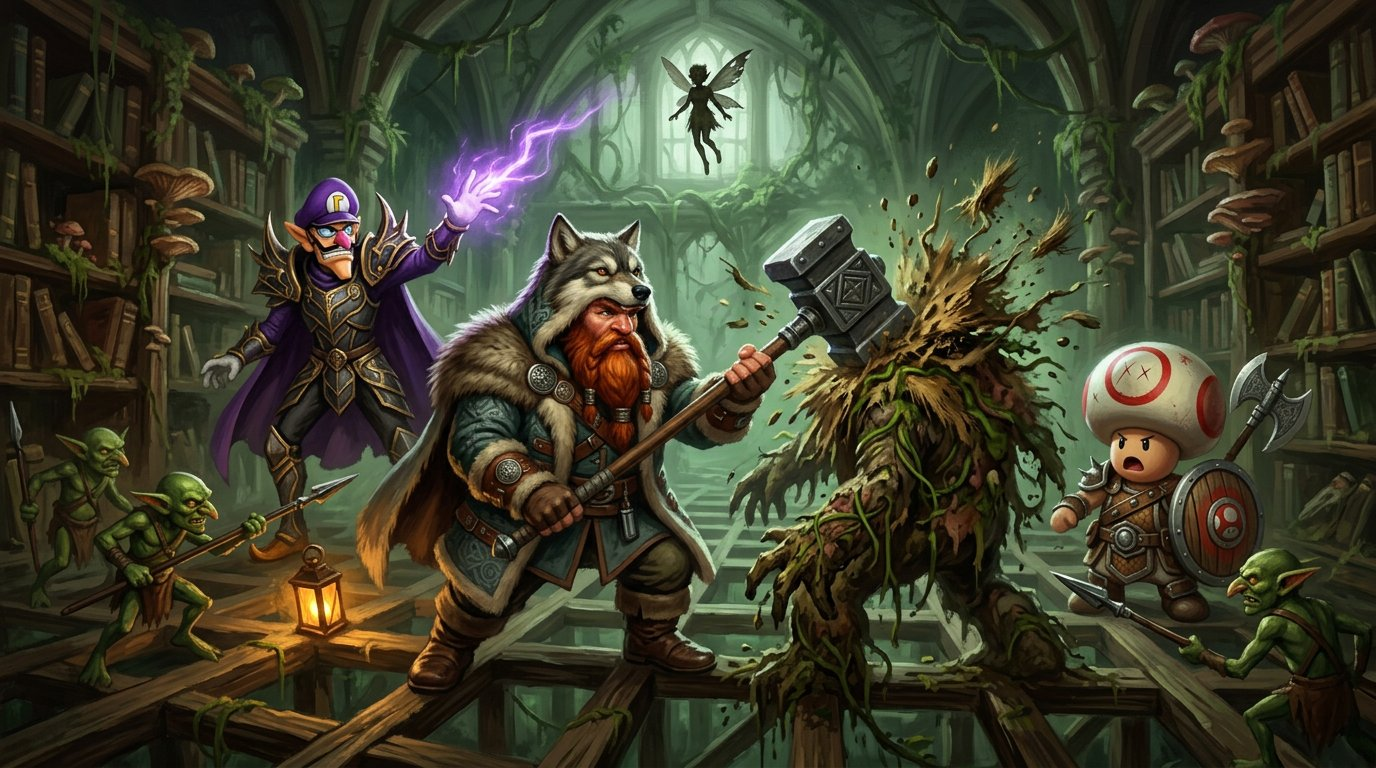
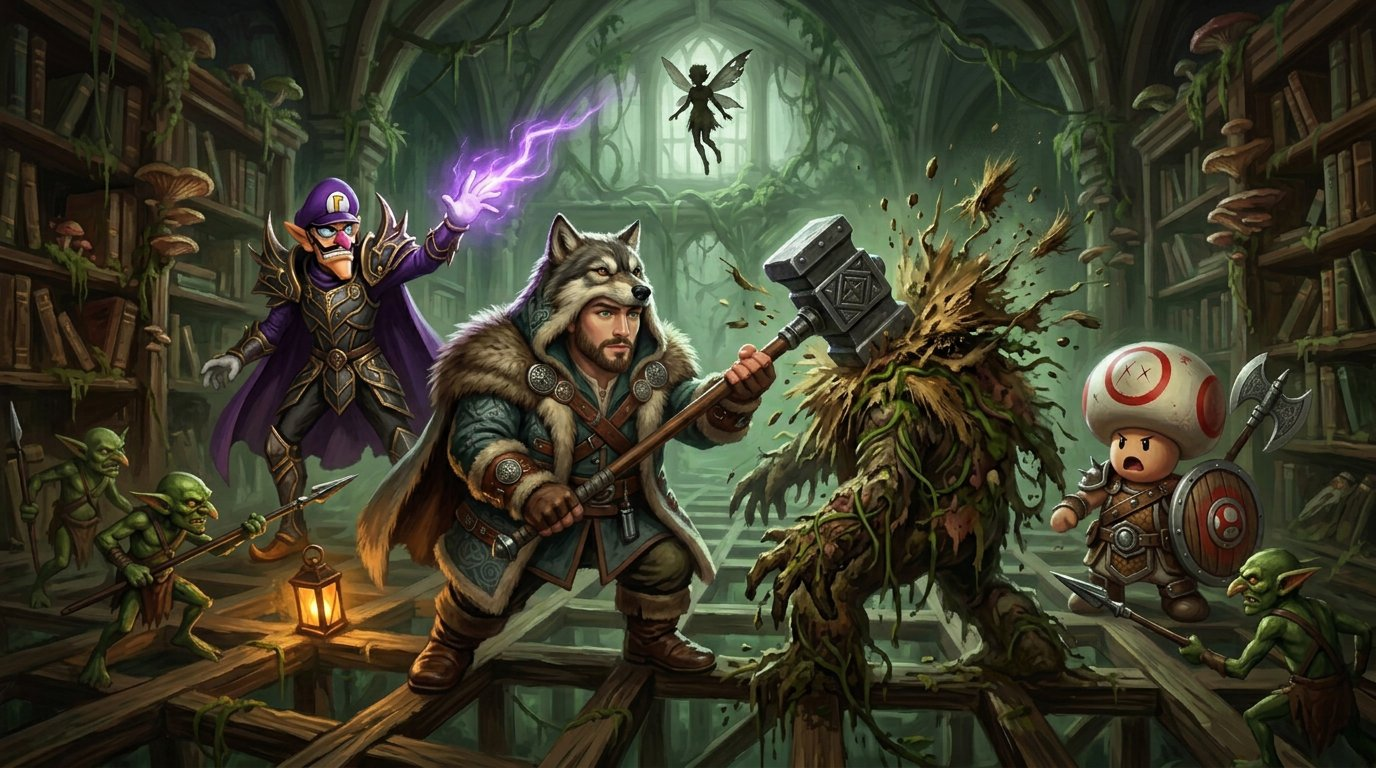
fix(lore): correct who opened the door, fix Hjumpik's likeness, add session nav
Three things the user caught or asked for.

1. CANON CORRECTION -- six lines were attributed to the wrong speaker.

The transcript alternates strictly through the closing argument and I lost
the alternation halfway, which inverted the ending. Corrected:

  "no no no we cant fight every battle"        -> HJUMPIK (was Waluigi)
  "i one shot that shrub almost 10 mineuts ago" -> WALUIGI (was Hjumpik)
  "remember the goblins stabbed it and it died" -> HJUMPIK (was Waluigi)
  "than if there that weak we should take them on" -> WALUIGI
  opens the door                                -> WALUIGI, over Hjumpik's
                                                   attempt to stop him

In the real session Hjumpik is the one arguing against another fight and
Waluigi is the one who escalates and forces it. That is what makes "since
when did you care" land -- it is a man asking why his cautious archivist
just acted completely out of character. My version made the closing line
a non-sequitur.

Rewrote the section and its aside, plus summary, outcome, assessment
points 1 and 6, three notableFeatures and two XP descriptions. Waluigi
now records the door in the active voice and owns it. The bathroom-door
references were checked and left -- Hjumpik does open that one.

2. Hjumpik looked like a random dwarf, and he was right.

The portrait is a younger man with a short trimmed dark-brown beard. My
prompt said "stocky red-bearded dwarf" -- I described him in words instead
[…]

diff --git a/index.html b/index.html
@@ -10579,6 +10579,75 @@ function injuryPanel(item){
   const rows=refs.map(ref=>{const e=entries.find(x=>x.d100===Number(ref.roll)); if(!e)return `<li>Unknown injury reference: ${esc(ref.injuryId||ref.roll)}</li>`; return `<li><a href="${pathPrefix}app/pages/standalone/injury-desk.html#injury-${e.d100}"><strong>d100 ${e.d100} · ${esc(e.injuryType)}</strong></a><span class="text-muted"> — ${esc(e.description)} Cure: ${esc(e.cure)} · ${esc(e.duration)}${ref.status&&ref.status!=='active'?` · ${esc(ref.status)}`:''}</span></li>`;}).join('');
   return `<section class="event-details-section injury-character-panel"><h4>🩹 Permanent injuries <a class="chip" href="${pathPrefix}app/pages/standalone/injury-desk.html">Open Injury Desk</a></h4><ul>${rows}</ul></section>`;
 }
+/* --- previous / next session nav ------------------------------------------
+   Sessions are filed into investigation arcs as an ordered sessions[] list.
+   That list, not the date field, is the reading order an archivist curated --
+   and it has to be, because Feyward filings carry two clocks (1040 BF on the
+   Material side, 922 BF on the Feyward side) and sorting by date interleaves
+   them into nonsense. We follow the curated order and show which arc it is. */
+function sessionNeighbours(articleId){
+  // investigations.json is {_README, investigations:[...]} -- the list is
+  // nested one level down, exactly as the sidebar count reads it.
+  const arcs=((DATA.investigations||{}).investigations)||[];
+  for(const arc of arcs){
+    const rows=(arc&&arc.sessions)||[];
+    // A session row points at an event id via .event
+    const idx=rows.findIndex(r=>r&&r.event===articleId);
+    if(idx<0)continue;
+    // A big arc braids several storylines together -- the Feyward manor thread,
+    // the Shadow Estate storm chain, the Shadowfell ritual. Walking the raw
+    // array sends a reader from a Feyward corridor straight into a different
+    // continent. So prefer the nearest neighbour sharing this article's
+    // storyline, identified by the leading segment of `era`, and only fall
+    // back to plain arc order when there is no same-thread neighbour.
+    const threadOf=eid=>{
+      const it=INDEX[eid]&&INDEX[eid].item;
+      const era=String((it&&it.era)||'');
+      // "Raventree Crisis - Feyward Operations / The Library Reclamation"
+      //  -> "raventree crisis - feyward operations"
+      // Dash characters are inconsistent across filings (- vs en/em dash),
+      // and normalizeSearchText does not strip the unicode ones.
+      return normalizeSearchText(era.split('/')[0].replace(/[\u2010-\u2015]/g,' ')).trim();
+    };
+    const mine=threadOf(articleId);
+    const scan=(from,step,sameThreadOnly)=>{
+      for(let i=from;i>=0&&i<rows.length;i+=step){
+        const r=rows[i];
+        if(!r||!r.event||r.event===articleId)continue;
+        if(!INDEX[r.event])continue;
+        if(sameThreadOnly&&mine&&threadOf(r.event)!==mine)continue;
+        return r;
+      }
+      return null;
+    };
+    const pick=(from,step)=>scan(from,step,true)||scan(from,step,false);
+    return {arc,prev:pick(idx-1,-1),next:pick(idx+1,1),idx,total:rows.length};
+  }
+  return null;
+}
+function sessionNavHtml(articleId){
+  const n=sessionNeighbours(articleId);
+  if(!n||(!n.prev&&!n.next))return '';
+  const cell=(row,dir)=>{
+    if(!row)return `<span class="snav-cell snav-empty"></span>`;
+    const it=INDEX[row.event]&&INDEX[row.event].item;
+    const name=(it&&(it.name||it.title))||prettyId(row.event);
+    const date=(it&&shortDateOf(it))||'';
+    return `<a class="snav-cell snav-${dir}" href="#/article/${encodeURIComponent(row.event)}">`
+      +`<span class="snav-dir">${dir==='prev'?'\u2190 Previous session':'Next session \u2192'}</span>`
+      +`<span class="snav-title">${esc(name)}</span>`
+      +(date?`<span class="snav-date">${esc(date)}</span>`:'')
+      +`</a>`;
+  };
+  const arcName=esc(n.arc.title||n.arc.codename||prettyId(n.arc.id));
+  return `<nav class="session-nav" aria-label="Session navigation">`
+    +`<div class="snav-arc">`
+      +`<a href="#/investigation/${encodeURIComponent(n.arc.id)}">\ud83d\uddc2\ufe0f ${arcName}</a>`
+      +`<span class="snav-count">session ${n.idx+1} of ${n.total}</span>`
+    +`</div>`
+    +`<div class="snav-row">${cell(n.prev,'prev')}${cell(n.next,'next')}</div>`
+  +`</nav>`;
+}
 function view_article(id){
   if(id==='the_midlands'){ Router.go('#/article/regal_empire'); return; }
   if(id==='thornburys_field_journal'){ view_fieldJournal(); return; }
@@ -10756,6 +10825,7 @@ ${typeKey==='characters'?renderArticleOperatorReputation(item.id):''}${typeKey==
      ${item.aftermath?`<h2 id="h-aftermath">Aftermath</h2><div class="prose">${applyAnnotations(mdToHtml(item.aftermath,item.id), item.id)}</div>`:''}
      ${item.waluigiAssessment?`<h2 id="h-assessment">Waluigi's Assessment</h2><div class="wnote wassessment">${applyAnnotations(mdToHtml(item.waluigiAssessment,item.id), item.id)}</div>`:''}
      ${relChips?`<h2 id="h-related">Related Articles</h2><div class="related-list">${relChips}</div>`:''}
+     ${sessionNavHtml(item.id)}
    </div>${exhibitTilesHtml(propsForArticle(item.id),{heading:'🗂 Documents behind this record',blurb:'The paperwork this account is built on. Click any one to read it as filed.'})}${wideRecord?railHtml+'</div>':`</div>${railHtml}`}</div>`;
   setArticleAccent(typeKey);
   endLinkPass();

diff --git a/Reputation-Matrix2/app/styles/waluipedia.css b/Reputation-Matrix2/app/styles/waluipedia.css
@@ -110,6 +110,28 @@ html[data-theme="light"] header.topbar{background:linear-gradient(90deg,rgba(255
 .res-item .rtype{font-size:10px;text-transform:uppercase;letter-spacing:.5px;color:var(--accent2);margin-left:6px}
 .res-item .rscore{font-size:10px;color:var(--muted);margin-left:6px;font-weight:400}
 .res-item .rsum{color:var(--muted);font-size:12.5px;display:-webkit-box;-webkit-line-clamp:2;-webkit-box-orient:vertical;overflow:hidden;line-height:1.45}
+/* --- previous / next session navigation ---------------------------------- */
+.session-nav{margin:26px 0 6px;padding-top:14px;border-top:1px solid rgba(212,168,83,.22)}
+.session-nav .snav-arc{display:flex;align-items:baseline;justify-content:space-between;gap:12px;flex-wrap:wrap;margin-bottom:10px}
+.session-nav .snav-arc a{font-size:12.5px;color:var(--gold,#d4a853);text-decoration:none;font-weight:600}
+.session-nav .snav-arc a:hover{text-decoration:underline}
+.session-nav .snav-count{font-size:11.5px;color:var(--muted);opacity:.85;white-space:nowrap}
+.session-nav .snav-row{display:grid;grid-template-columns:1fr 1fr;gap:12px}
+.session-nav .snav-cell{display:flex;flex-direction:column;gap:4px;padding:12px 14px;border-radius:10px;
+  background:rgba(255,255,255,.035);border:1px solid rgba(255,255,255,.09);text-decoration:none;
+  transition:border-color .15s ease,background .15s ease,transform .15s ease}
+.session-nav a.snav-cell:hover{background:rgba(212,168,83,.08);border-color:rgba(212,168,83,.4);transform:translateY(-1px)}
+.session-nav .snav-empty{background:none;border:1px dashed rgba(255,255,255,.06)}
+.session-nav .snav-next{text-align:right}
+.session-nav .snav-dir{font-size:11px;letter-spacing:.04em;text-transform:uppercase;color:var(--muted);opacity:.9}
+.session-nav .snav-title{font-size:13.5px;line-height:1.35;color:var(--fg,#f0e9dd);font-weight:600}
+.session-nav .snav-date{font-size:11px;color:var(--muted);opacity:.8}
+@media (max-width:640px){
+  .session-nav .snav-row{grid-template-columns:1fr}
+  .session-nav .snav-next{text-align:left}
+  .session-nav .snav-empty{display:none}
+}
+
 /* Search result metadata: when the record happened, and who the query hit. */
 .search-corrected{font-size:12px;color:var(--muted);padding:4px 2px 6px;border-bottom:1px solid rgba(255,255,255,.07);margin-bottom:6px}
 .search-corrected b{color:var(--fg,inherit)}

diff --git a/tools/check-all.py b/tools/check-all.py
@@ -61,6 +61,7 @@ def main() -> int:
         # the real data. No server needed, unlike the live jsdom counterpart
         # (tools/tests/test-search-live.mjs, which needs :8765).
         checks.append(("search quality", ["node", "tools/tests/test-search-quality.mjs"], ROOT))
+        checks.append(("session nav", ["node", "tools/tests/test-session-nav.mjs"], ROOT))
     else:
         print("\n=== Bros discovery test ===\nSKIP: node is not on PATH")
 

diff --git a/docs/run-reports/2026-09-05-feyward-library-reclamation.md b/docs/run-reports/2026-09-05-feyward-library-reclamation.md
@@ -208,6 +208,89 @@ filing — an untouched article (`the_neighbor_incident`) shows 21 of them in th
 same harness. The renderer itself is correct: `proplinkHtml()` returns a proper
 anchor for both new props.
 
+## Third pass — a canon correction, a portrait fix, and session navigation
+
+### The correction (this one mattered)
+
+The user flagged that **Waluigi opened the final door and Hjumpik tried to stop
+him** — I had written it the other way round. Checking the transcript against
+the filing, I had misattributed **six consecutive lines**. The speakers
+alternate strictly through that argument and I lost the alternation halfway:
+
+| transcript line | correct speaker | I had written |
+|---|---|---|
+| "thinking lead us so far… but if we dont act" | Waluigi | Hjumpik |
+| "no no no we cant fight every battle" | **Hjumpik** | Waluigi |
+| "i one shot that shrub almost 10 mineuts ago" | **Waluigi** | Hjumpik |
+| "remember the goblins stabbed it and it died" | **Hjumpik** | Waluigi |
+| "than if there that weak than we should take them on" | **Waluigi** | Hjumpik |
+| **opens the door** | **Waluigi** | Hjumpik |
+
+This inverted the meaning of the ending. In the real session **Hjumpik is the
+one counselling restraint** — *we can't fight every battle* — and **Waluigi is
+the one who escalates and forces the fight**, reaching past the dwarf's hand to
+open the door. That is what makes *"Since when did you care?"* land: it is not
+an idle question, it is a man asking why his cautious archivist just behaved
+completely out of character. My version had Hjumpik doing the reckless thing,
+which made the closing line a non-sequitur.
+
+Rewritten: the section prose, its aside, the event `summary`, the `outcome`,
+assessment points 1 and 6, three `notableFeatures`, and two XP award
+descriptions. Waluigi now records the door in the active voice and owns it.
+
+The bathroom-door references were checked and left alone — Hjumpik does knock
+and open *that* door in the transcript. Different door.
+
+### Hjumpik's likeness
+
+The user said he looked like a random dwarf. Correct: comparing the plate to
+`portraits/hjumpik.png`, the portrait is a younger human-proportioned man with
+a **short trimmed dark-brown beard**, and my prompt had said *"stocky
+red-bearded dwarf"* — I described him in words instead of letting the reference
+lead, which is the exact failure the guide warns about. Fixed by **editing**
+both affected plates rather than rerolling, preserving composition and lighting.
+`lib-02` and `lib-04` now carry the right face. (One edit was blocked by
+moderation on the first attempt and succeeded on a reworded retry.)
+
+### Previous / next session navigation
+
+New `sessionNavHtml()` / `sessionNeighbours()` in `index.html`, rendered under
+Related Articles on any article filed into an investigation arc. Shows the arc
+name, "session N of M", and prev/next cards with title and date.
+
+**The interesting problem:** a big arc braids storylines together.
+`shadeward_feyward_ruined` holds the Feyward manor thread, the Shadow Estate
+storm chain and the Shadowfell ritual in one 12-row `sessions[]` array, so plain
+array order sent a reader from a Feyward corridor to a different continent —
+the library's "previous" was the Scorncrow Skirmish. The nav now prefers the
+nearest neighbour **on the same storyline**, keyed off the leading segment of
+`era`, and only falls back to raw arc order when a thread has no neighbour.
+
+Two bugs found and fixed while building it:
+- `DATA.investigations` is `{_README, investigations:[…]}` — the list is nested
+  one level down. My first version assumed a bare array and threw.
+- Dash characters are inconsistent across filings (`-` vs `—`), and
+  `normalizeSearchText` does not strip unicode dashes, so two Feyward filings
+  had non-matching thread keys. The comparison now normalises `\u2010-\u2015`,
+  and this event's `era` was corrected to the archive's em-dash convention.
+
+`tools/tests/test-session-nav.mjs` — **17 assertions**, wired into
+`check-all.py`. It walks the whole Feyward chain in both directions, asserts the
+library never links back to a Shadow Estate session, and checks the invariants
+(no self-links, no links to missing events, null for non-session pages).
+
+## Verification (third pass)
+
+| check | result |
+|---|---|
+| `check-all.py` | **17/19** — same two pre-existing failures |
+| session nav | 17/17 |
+| search quality / live | 38/38 · 23/23 |
+| faith / reputation / home feed | 40/40 · 25/25 · 11/11 |
+| sanitizer | 92/92 |
+| `check-investigations.py` | 25 errors — still the baseline |
+| `index.html` JS parse | OK |
+
 ## Still not done
 
 - **The dangling `the_orange_heir` id** in the previous filing is untouched.
